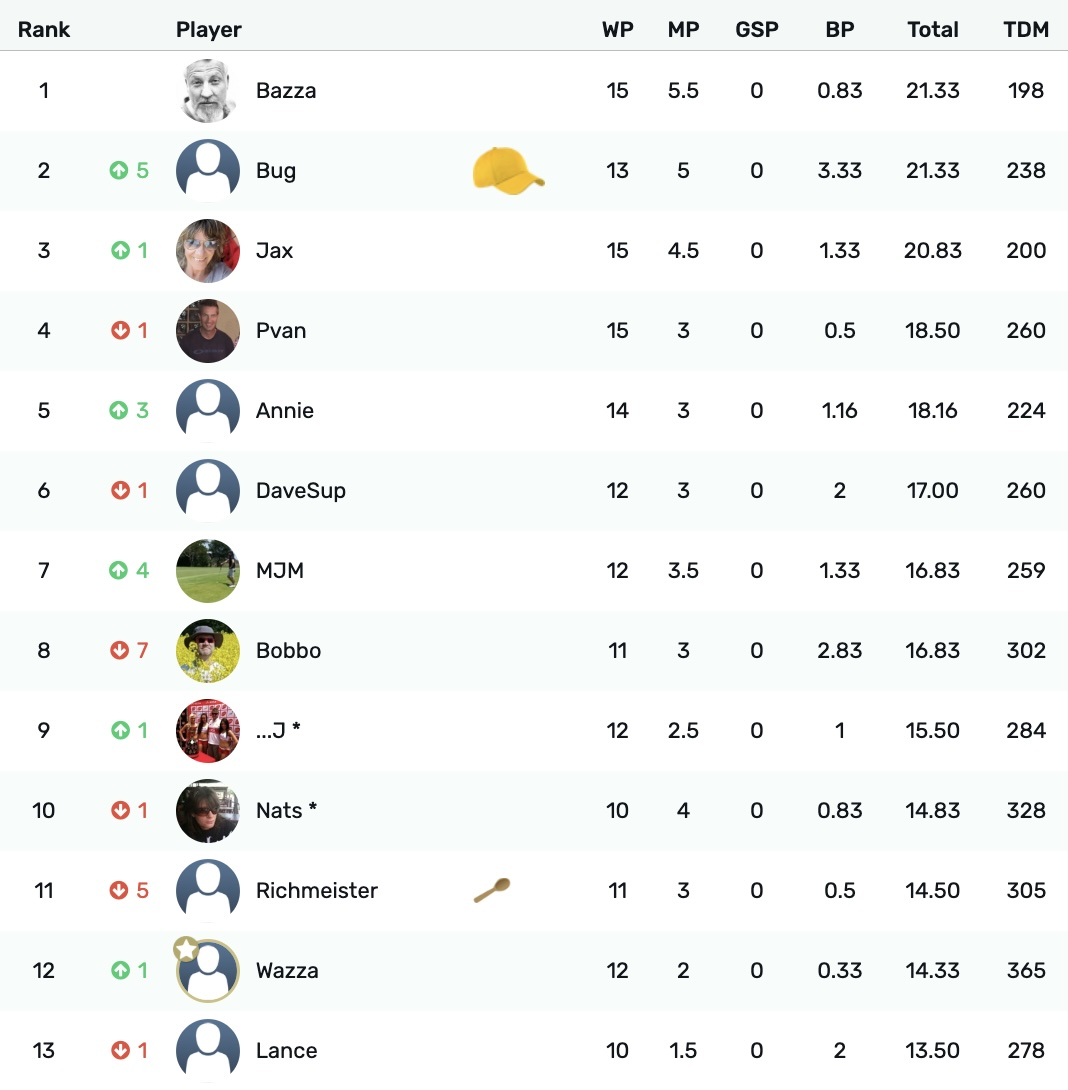
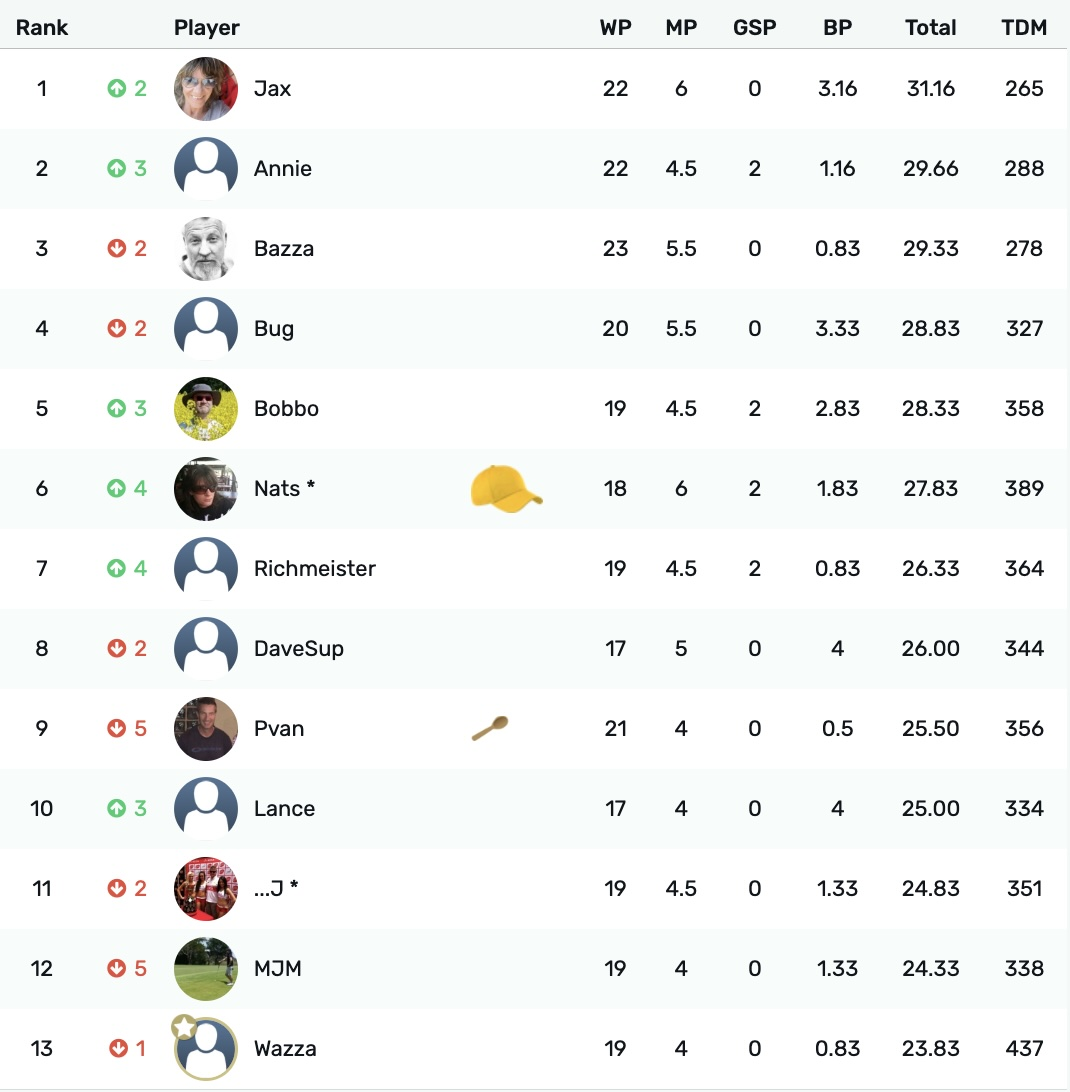
Round 4 Superbru

diff --git a/src/content/blog/latest-superbru.md b/src/content/blog/latest-superbru.md
@@ -1,6 +1,6 @@
 ---
 title: "Latest Superbru Tournament"
-date: 2026-10-13
+date: 2026-10-26
 category: Happenings
 excerpt: "Never a dull moment, and all the ups and downs that come with competing against fellow learners of the Class of 87."
 author: Barrie Bramley
@@ -18,9 +18,9 @@ The latest tournament we're running is for the [United Rugby Championship](https
 
 **Round 3 Results**
 
-There are 18 rounds (ends in May 2027). At the end of Round 3, here's the lay of the land:
+There are 18 rounds (ends in May 2027). At the end of Round 4, here's the lay of the land:
 
-![Round 3 Results](/images/uploads/superbru-round-2.jpeg)
+![Round 4 Results](/images/uploads/superbru-round-2.jpeg)
 
 **How to Enter** (if you're happy to be a few rounds behind, you can still join)
 
